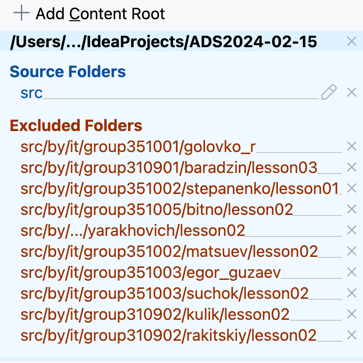
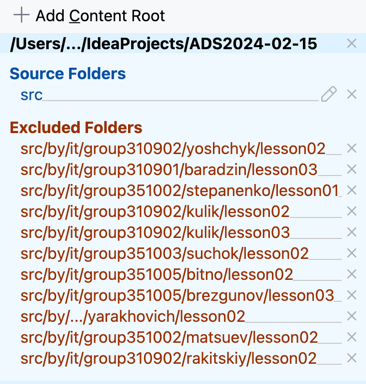
lesson3b fixed

diff --git a/src/by/it/group351005/brezgunov/lesson03/B_Huffman.java b/src/by/it/group351005/brezgunov/lesson03/B_Huffman.java
@@ -2,6 +2,8 @@ package by.it.group351005.brezgunov.lesson03;
 
 import java.io.File;
 import java.io.FileNotFoundException;
+import java.util.HashMap;
+import java.util.Map;
 import java.util.Scanner;
 
 // Lesson 3. B_Huffman.
